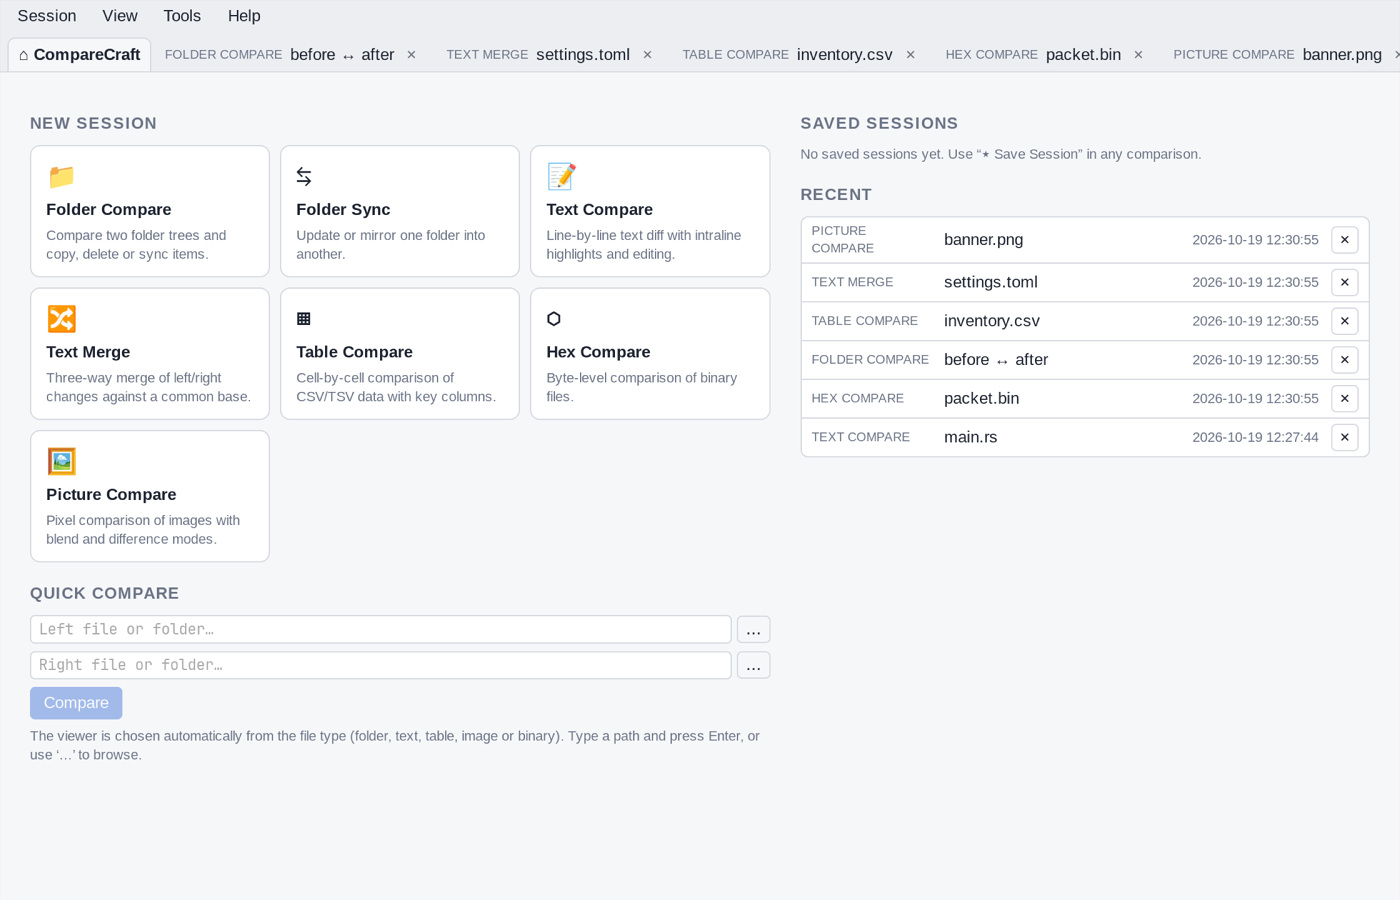
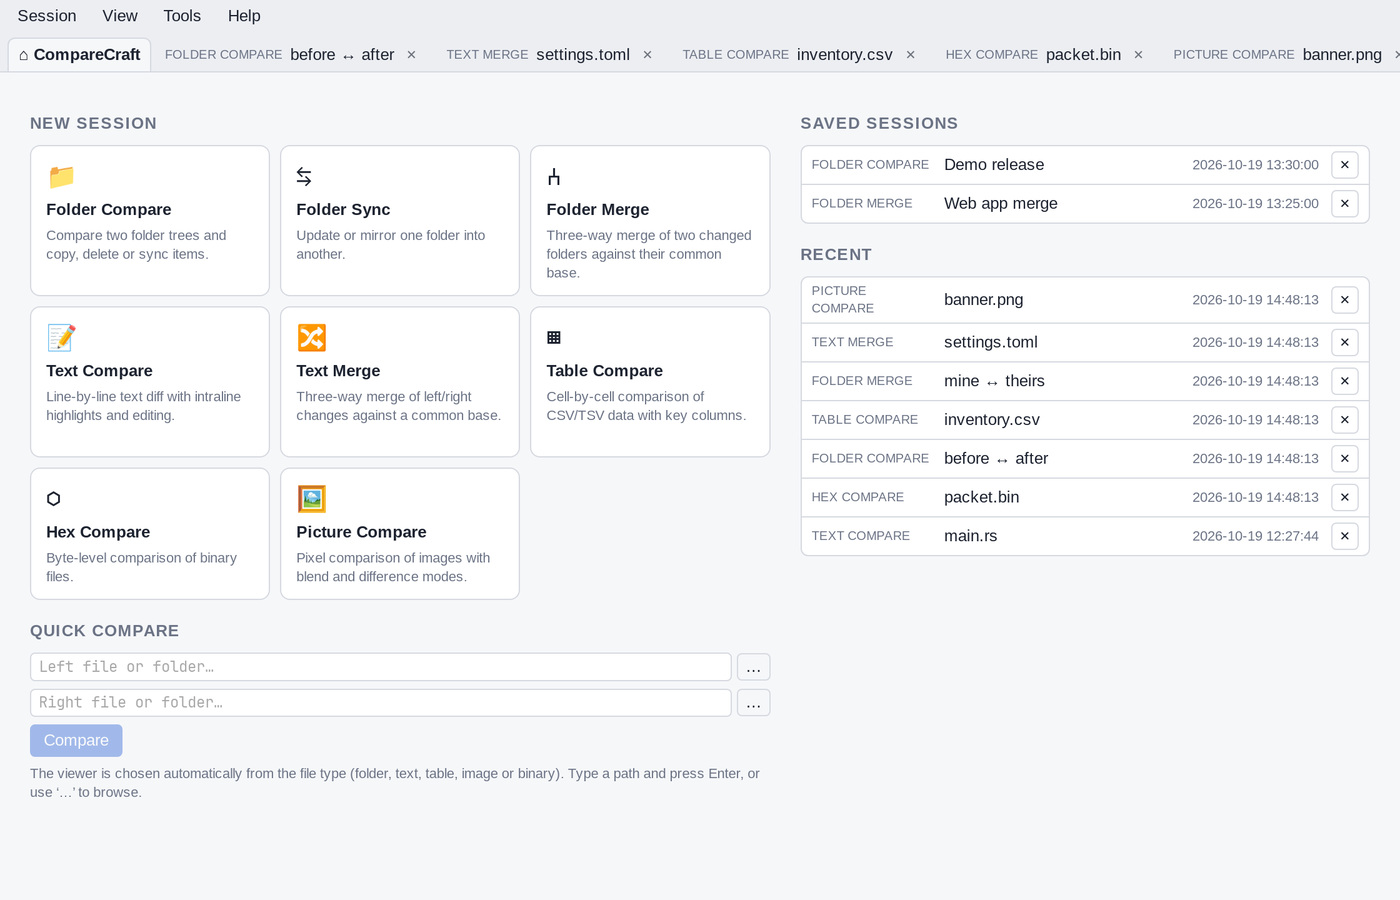
Docs: retake manual screenshots and add new ones
- Retake all viewer and Home screenshots with the current build
- Add Folder Merge, Session menu, Info, Report and Workspaces
  dialog screenshots, plus sample HTML report output
- Reference the new images in the manual and README
- Folder Merge status bar: singular/plural counts

diff --git a/src/views/FolderMerge.tsx b/src/views/FolderMerge.tsx
@@ -11,6 +11,8 @@ import { openAuto, openTab, persistSession, updateTab, type Tab } from "../store
 import { defaultOptions } from "./FolderCompare";
 import { sessionCommands } from "./sessionMenu";
 
+const plural = (n: number, word: string) => `${n} ${word}${n === 1 ? "" : "s"}`;
+
 type Filter = "all" | "changes" | "conflicts" | "same";
 type Version = "left" | "right";
 
@@ -331,8 +333,9 @@ export default function FolderMerge(props: { tab: Tab; active: boolean }) {
         </Show>
         <Show when={result()}>
           <span>
-            {result()!.items.length} files · <span class="st-diff">{count("conflict")} conflicts</span> · <span class="st-orphan">{count("left")} left changes · {count("right")} right changes</span> ·{" "}
-            <span class="st-unimp">{count("both")} same changes</span> · <span class="st-same">{count("same")} unchanged</span>
+            {plural(result()!.items.length, "file")} · <span class="st-diff">{plural(count("conflict"), "conflict")}</span> ·{" "}
+            <span class="st-orphan">{plural(count("left"), "left change")} · {plural(count("right"), "right change")}</span> ·{" "}
+            <span class="st-unimp">{plural(count("both"), "same change")}</span> · <span class="st-same">{count("same")} unchanged</span>
             {selected().length ? ` · ${selected().length} selected` : ""}
           </span>
         </Show>

diff --git a/docs/manual/reports.md b/docs/manual/reports.md
@@ -8,6 +8,8 @@ Folder Compare and the file comparison views have a report command on the **Sess
 
 The report dialog has three parts.
 
+![The Folder Compare Report dialog with the report layout, report options and output options](images/report-dialog.jpg)
+
 **Report layout** lists the layouts for the view:
 
 | Dialog | Layouts |
@@ -28,6 +30,8 @@ File Compare Report uses the viewer-specific dialog when all selected files are 
 - For the Interleaved layout: **Strikeout left differences** and **Strikeout right differences**.
 - For the Patch layout: **Patch style:** **Normal diff**, **Context diff** or **Unified diff**.
 - For folder reports: **Columns:** **Size**, **Modified**, **CRC** and **Attributes**.
+
+![The Text Compare Report dialog with the text layouts, including Patch, Statistics and XML Dump](images/report-dialog-text.jpg)
 
 **Output options** choose where the report goes:
 
@@ -205,6 +209,14 @@ text-report output-to:report.html output-options:"html-custom=https://intranet.e
 ## HTML reports
 
 An HTML report is a single HTML file with the style sheet embedded in it, so it can be opened in any browser, attached to an e-mail or published as a build artifact. With `html-custom=`, the file links to your style sheet instead.
+
+A side-by-side text report with the color style sheet and line numbers:
+
+![An HTML side-by-side text report with changed lines highlighted and line numbers on both sides](images/report-text-output.jpg)
+
+A side-by-side folder report with the color style sheet, after `expand all`:
+
+![An HTML side-by-side folder report with folder icons, tree lines, sizes and modification times](images/report-folder-output.jpg)
 
 Some reports need images or additional pages. These are written to folders next to the report file:
 

diff --git a/docs/manual/sessions.md b/docs/manual/sessions.md
@@ -61,8 +61,12 @@ In Folder Compare and Folder Sync, the **Session Settings** dialog can also upda
 
 ## Session information and reports
 
+![The Session menu of a Text Compare, with the Info and Report commands, workspaces and Compare Parent Folders](images/session-menu.jpg)
+
 - The **Info** command on the **Session** menu (`Ctrl+I`), for example **Folder Compare Info** or **Text Compare Info**, shows a summary of the comparison: how many files or lines are the same, different or orphans. In folder views, expand a category to see its files.
 - The **Report…** command on the **Session** menu, for example **Folder Compare Report…** or **Text Compare Report…** (not in Folder Sync, Folder Merge or Text Merge), creates a report of the comparison as it is shown. See [Reports](reports.md#create-reports-in-the-application).
+
+![Folder Merge Info with the Conflicts and Left changes categories expanded to show their files](images/info-dialog.jpg)
 
 ## Compare parent and base folders
 
@@ -76,6 +80,8 @@ A workspace is a set of open tabs saved under a name. Use workspaces to switch b
 - **Session > Save Workspace As…** saves all open tabs under a name. If a workspace with that name exists, CompareCraft asks before replacing it.
 - **Session > Load Workspace** lists the saved workspaces. Choosing one closes the open tabs and opens the tabs of the workspace. If some tabs have unsaved changes, CompareCraft asks first.
 - **Session > Load Workspace > Manage Workspaces…** opens a list of the saved workspaces. Select one and click **Rename** (`F2`), **Delete** (`Del`) or **Load** (or double-click it).
+
+![The Manage Workspaces dialog listing two saved workspaces](images/workspaces-dialog.jpg)
 
 ## Restore your tabs at startup
 

diff --git a/README.md b/README.md
@@ -153,7 +153,11 @@ dark and auto themes are included.
 </tr>
 <tr>
 <td width="50%"><img src="docs/manual/images/picture-compare.jpg" alt="Picture Compare of two images with the tolerance difference picture"><br><sub><b>Picture Compare.</b> Both pictures with a tolerance, range or blend difference picture.</sub></td>
-<td width="50%"><img src="docs/manual/images/home.jpg" alt="Home view with recent and saved sessions"><br><sub><b>Home.</b> Start a comparison or reopen a session.</sub></td>
+<td width="50%"><img src="docs/manual/images/folder-merge.jpg" alt="Folder Merge with left, base, right and output folders and a conflict selected"><br><sub><b>Folder Merge.</b> Three-way merge of folder trees, with conflicts resolved file by file.</sub></td>
+</tr>
+<tr>
+<td width="50%"><img src="docs/manual/images/report-dialog.jpg" alt="Folder Compare Report dialog with layout, report and output options"><br><sub><b>Reports.</b> HTML, plain-text or printed reports from the Session menu.</sub></td>
+<td width="50%"><img src="docs/manual/images/home.jpg" alt="Home view with new session cards, saved sessions and recent comparisons"><br><sub><b>Home.</b> Start a comparison or reopen a session.</sub></td>
 </tr>
 </table>
 

diff --git a/docs/manual/folder-merge.md b/docs/manual/folder-merge.md
@@ -1,5 +1,7 @@
 # Folder Merge
 
+![Folder Merge with left, base, right and output folders, and a conflict selected in the file list](images/folder-merge.jpg)
+
 Folder Merge combines the changes made to two copies of a folder tree. You give it the two changed folders (left and right), optionally the folder they both started from (the base), and an output folder. CompareCraft works out, file by file, which side changed and copies the changed versions into the output. Files changed differently on both sides are conflicts. You resolve them one by one, with a [Text Merge](text-merge.md) if needed.
 
 ## Start a folder merge
